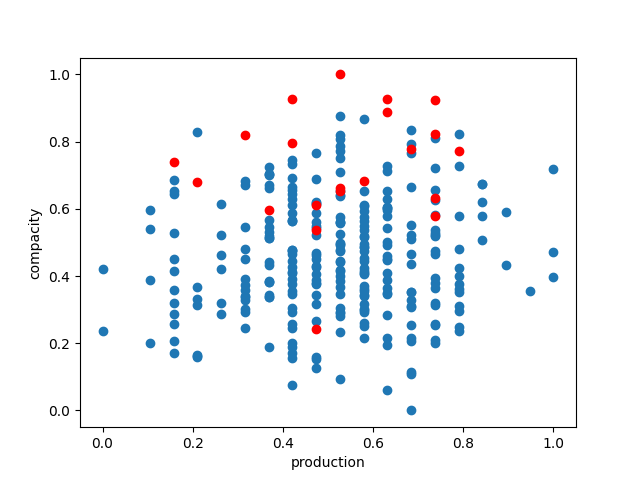
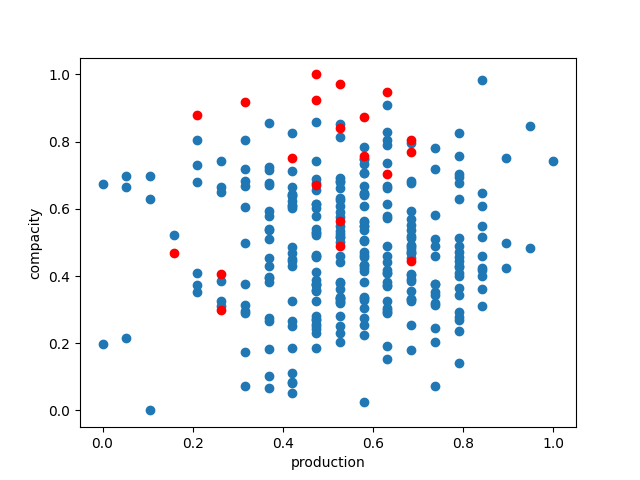
corrections mineures du code

diff --git a/main.py b/main.py
@@ -269,7 +269,7 @@ def reproduction_population(population):
         population: set of solutions
     """
     for i in range(0, len(population), 2):
-        # Selection of the parents 
+        # Selection of the parents
         parent1 = population[i]
         parent2 = population[i + 1]
         # Generation of two children
@@ -317,17 +317,17 @@ def selection(population, population_size):
     # tri la population par score
     sorted_population_ac_score = sorted(
         population_ac_score, key=lambda x: x[1], reverse=True)
-    
+
     # Ajouter à la liste le meilleur score afin de plotter par après
     best_scores.append(sorted_population_ac_score[0][1])
-    
+
     # retourne la moitié de la population avec le meilleur score
     sorted_population = [sorted_population_ac_score[i][0]
                          for i in range(len(sorted_population_ac_score))]
     return sorted_population[:population_size]
 
 
-def algorithme_genetic(initial_population_size, iteration):
+def genetic_algorithm(initial_population_size, iteration):
     """ Genetic Algorithm:
     1: Initial population
     2: Evolution loop
@@ -492,7 +492,7 @@ if __name__ == "__main__":
     """2: INITIAL POPULATION """
 
     # Generate initial population randomly ⇾ cover as much as possible the solution space
-    population_amelioree = algorithme_genetic(300, 500)
+    population_amelioree = genetic_algorithm(300, 1000)
 
     """4: Pareto Frontier"""
 
